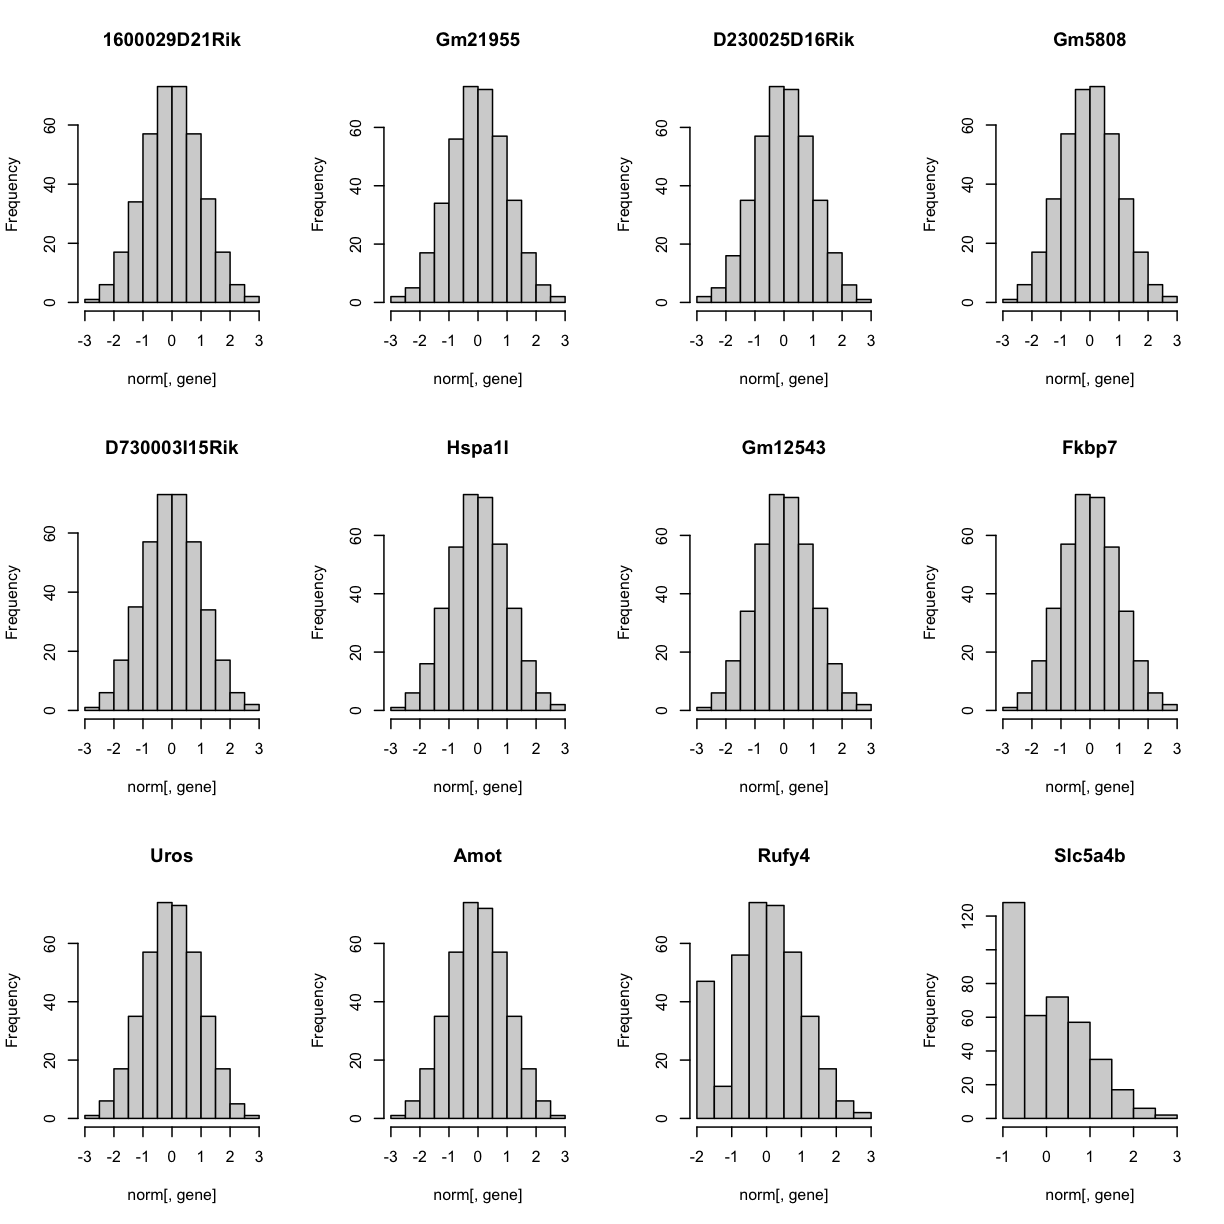
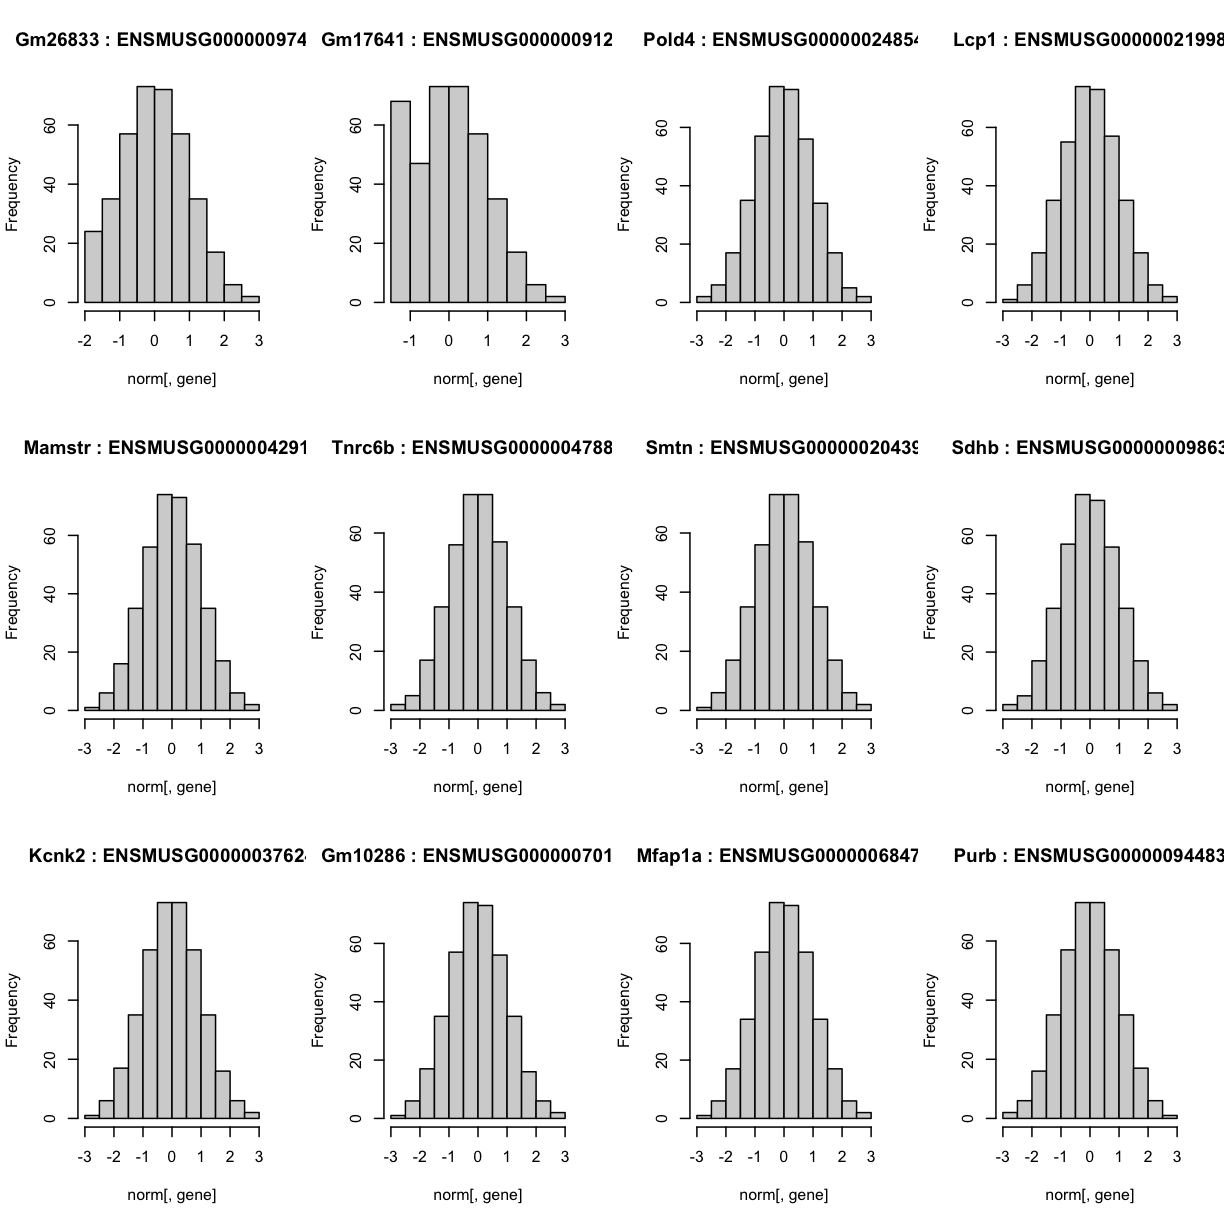
updating lesson 6 V

diff --git a/_episodes/06-map-many-eqtls.md b/_episodes/06-map-many-eqtls.md
@@ -69,13 +69,13 @@ genes <- genes[sams]
 
 ### Expression Data
 
-Lets check the distributin of these 50 gene expression phenotypes
+Lets check the distribution for the first 20 gene expression phenotypes. If you would like to check the distribution of all 50 genes, change `for(gene in genes[1:20])` in the code below to `for(gene in genes)`.
 
 
 ~~~
 par(mfrow=c(3,4))
 for(gene in genes[1:20]){
-  hist(norm[,gene], main = dataset.islet.rnaseq$annots[dataset.islet.rnaseq$annots$gene_id == gene,]$symbol)
+  hist(norm[,gene], main = paste0(dataset.islet.rnaseq$annots[dataset.islet.rnaseq$annots$gene_id == gene,]$symbol, " : ", gene))
   }
 ~~~
 {: .language-r}
@@ -135,16 +135,16 @@ tmp
 # Groups:   expression [50]
    expression         data     model  term     estimate std.e…¹ stati…²  p.value
    <chr>              <list>   <list> <chr>       <dbl>   <dbl>   <dbl>    <dbl>
- 1 ENSMUSG00000032068 <tibble> <lm>   (Interc… -5.04e-1 0.593    -0.850 3.96e- 1
- 2 ENSMUSG00000032068 <tibble> <lm>   sexM     -8.35e-2 0.0966   -0.864 3.88e- 1
- 3 ENSMUSG00000032068 <tibble> <lm>   DOwave    2.68e-1 0.0434    6.18  1.72e- 9
- 4 ENSMUSG00000032068 <tibble> <lm>   diet_da… -9.28e-4 0.00453  -0.205 8.38e- 1
- 5 ENSMUSG00000095375 <tibble> <lm>   (Interc…  3.55e-1 0.617     0.575 5.66e- 1
- 6 ENSMUSG00000095375 <tibble> <lm>   sexM     -2.14e-1 0.101    -2.12  3.44e- 2
- 7 ENSMUSG00000095375 <tibble> <lm>   DOwave   -6.60e-2 0.0452   -1.46  1.45e- 1
- 8 ENSMUSG00000095375 <tibble> <lm>   diet_da… -5.38e-4 0.00472  -0.114 9.09e- 1
- 9 ENSMUSG00000031889 <tibble> <lm>   (Interc…  1.34e+0 0.556     2.40  1.67e- 2
-10 ENSMUSG00000031889 <tibble> <lm>   sexM     -6.42e-1 0.0907   -7.09  6.93e-12
+ 1 ENSMUSG00000097406 <tibble> <lm>   (Interc… -0.168   0.491    -0.343 7.32e- 1
+ 2 ENSMUSG00000097406 <tibble> <lm>   sexM      0.218   0.0801    2.72  6.90e- 3
+ 3 ENSMUSG00000097406 <tibble> <lm>   DOwave    0.520   0.0360   14.4   7.67e-38
+ 4 ENSMUSG00000097406 <tibble> <lm>   diet_da… -0.00970 0.00375  -2.58  1.02e- 2
+ 5 ENSMUSG00000091272 <tibble> <lm>   (Interc… -0.188   0.549    -0.342 7.33e- 1
+ 6 ENSMUSG00000091272 <tibble> <lm>   sexM     -0.240   0.0895   -2.68  7.64e- 3
+ 7 ENSMUSG00000091272 <tibble> <lm>   DOwave    0.320   0.0402    7.95  2.20e-14
+ 8 ENSMUSG00000091272 <tibble> <lm>   diet_da… -0.00369 0.00420  -0.881 3.79e- 1
+ 9 ENSMUSG00000024854 <tibble> <lm>   (Interc…  0.228   0.506     0.450 6.53e- 1
+10 ENSMUSG00000024854 <tibble> <lm>   sexM      0.185   0.0824    2.24  2.57e- 2
 # … with 190 more rows, and abbreviated variable names ¹std.error, ²statistic
 ~~~
 {: .output}
@@ -204,6 +204,8 @@ if(file.exists(qtl.file)) {
 {: .language-r}
 
 ### QTL plots
+
+Let's plot the first 20 gene expression phenotypes.  If you would like to plot all 50, change `for(i in 1:20)` in the code below to `for(i in 1:ncol(qtl))`.
 
 
 
